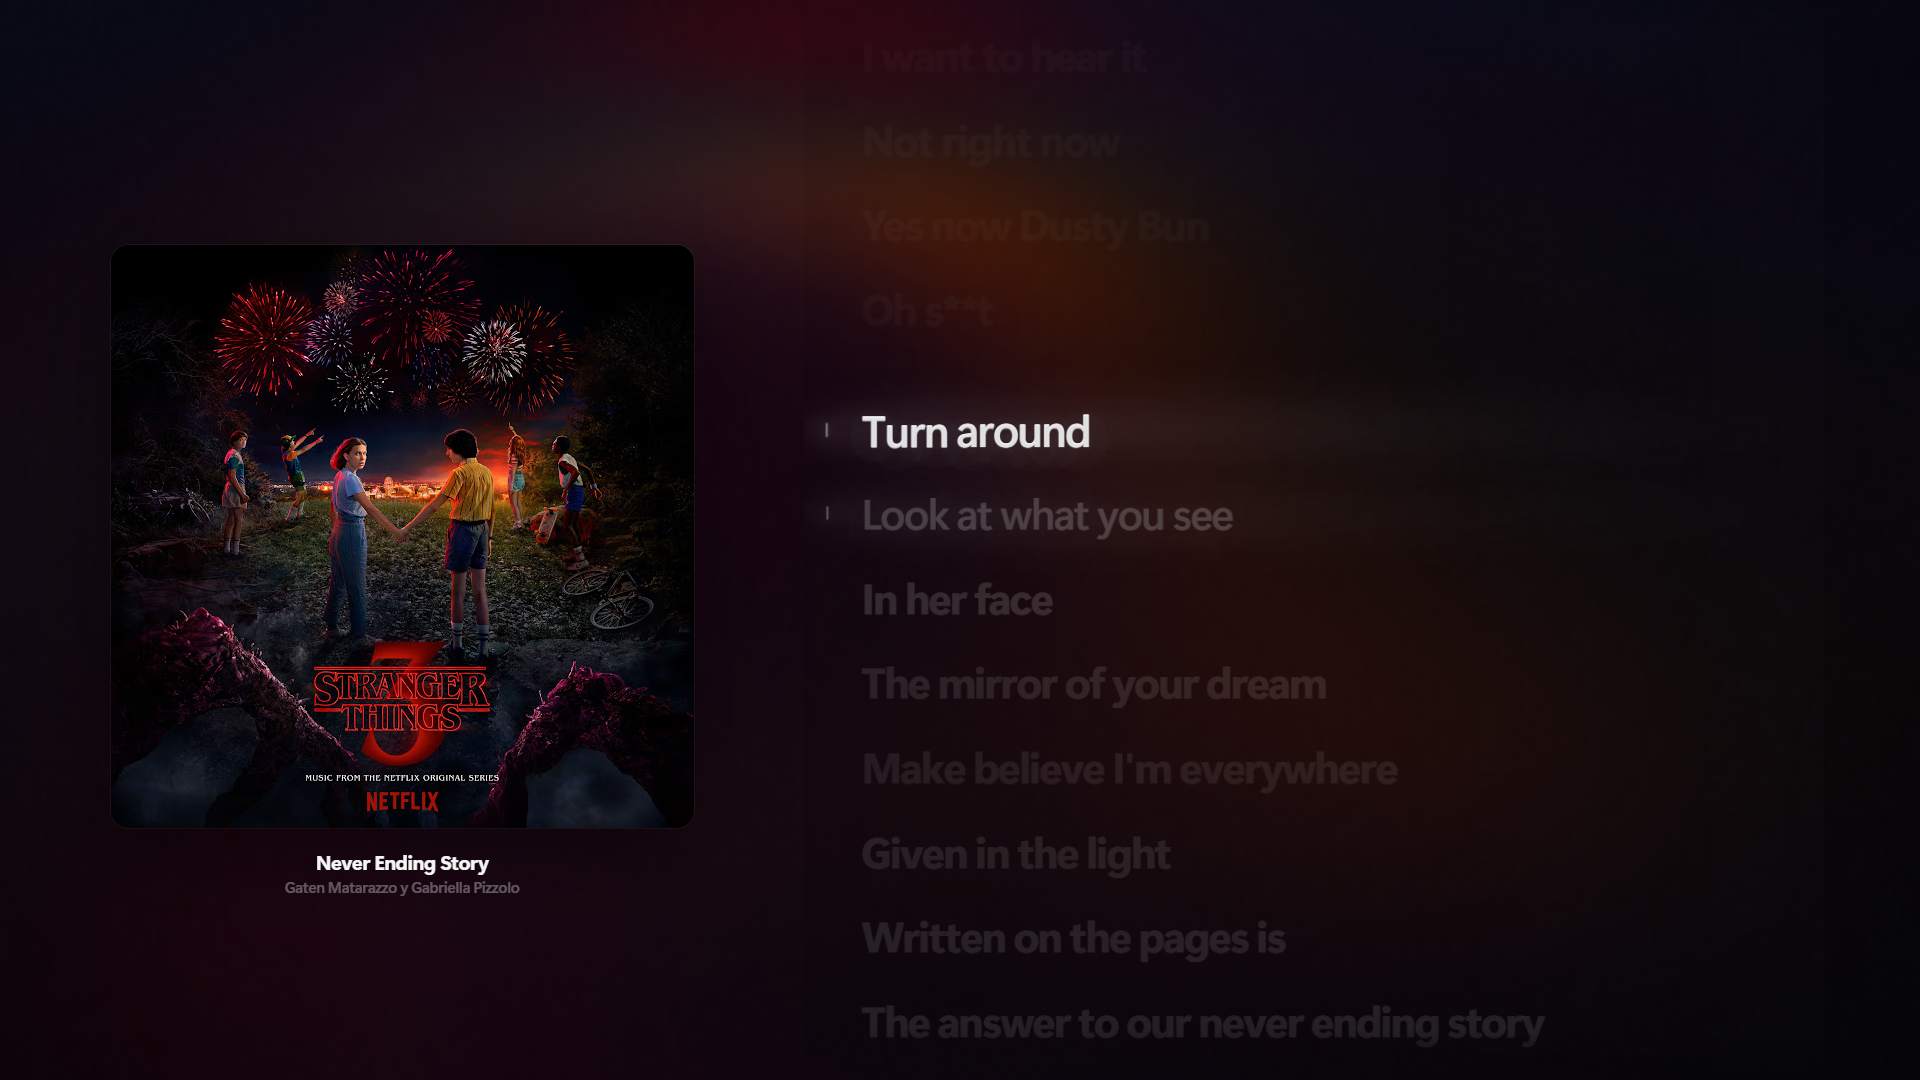
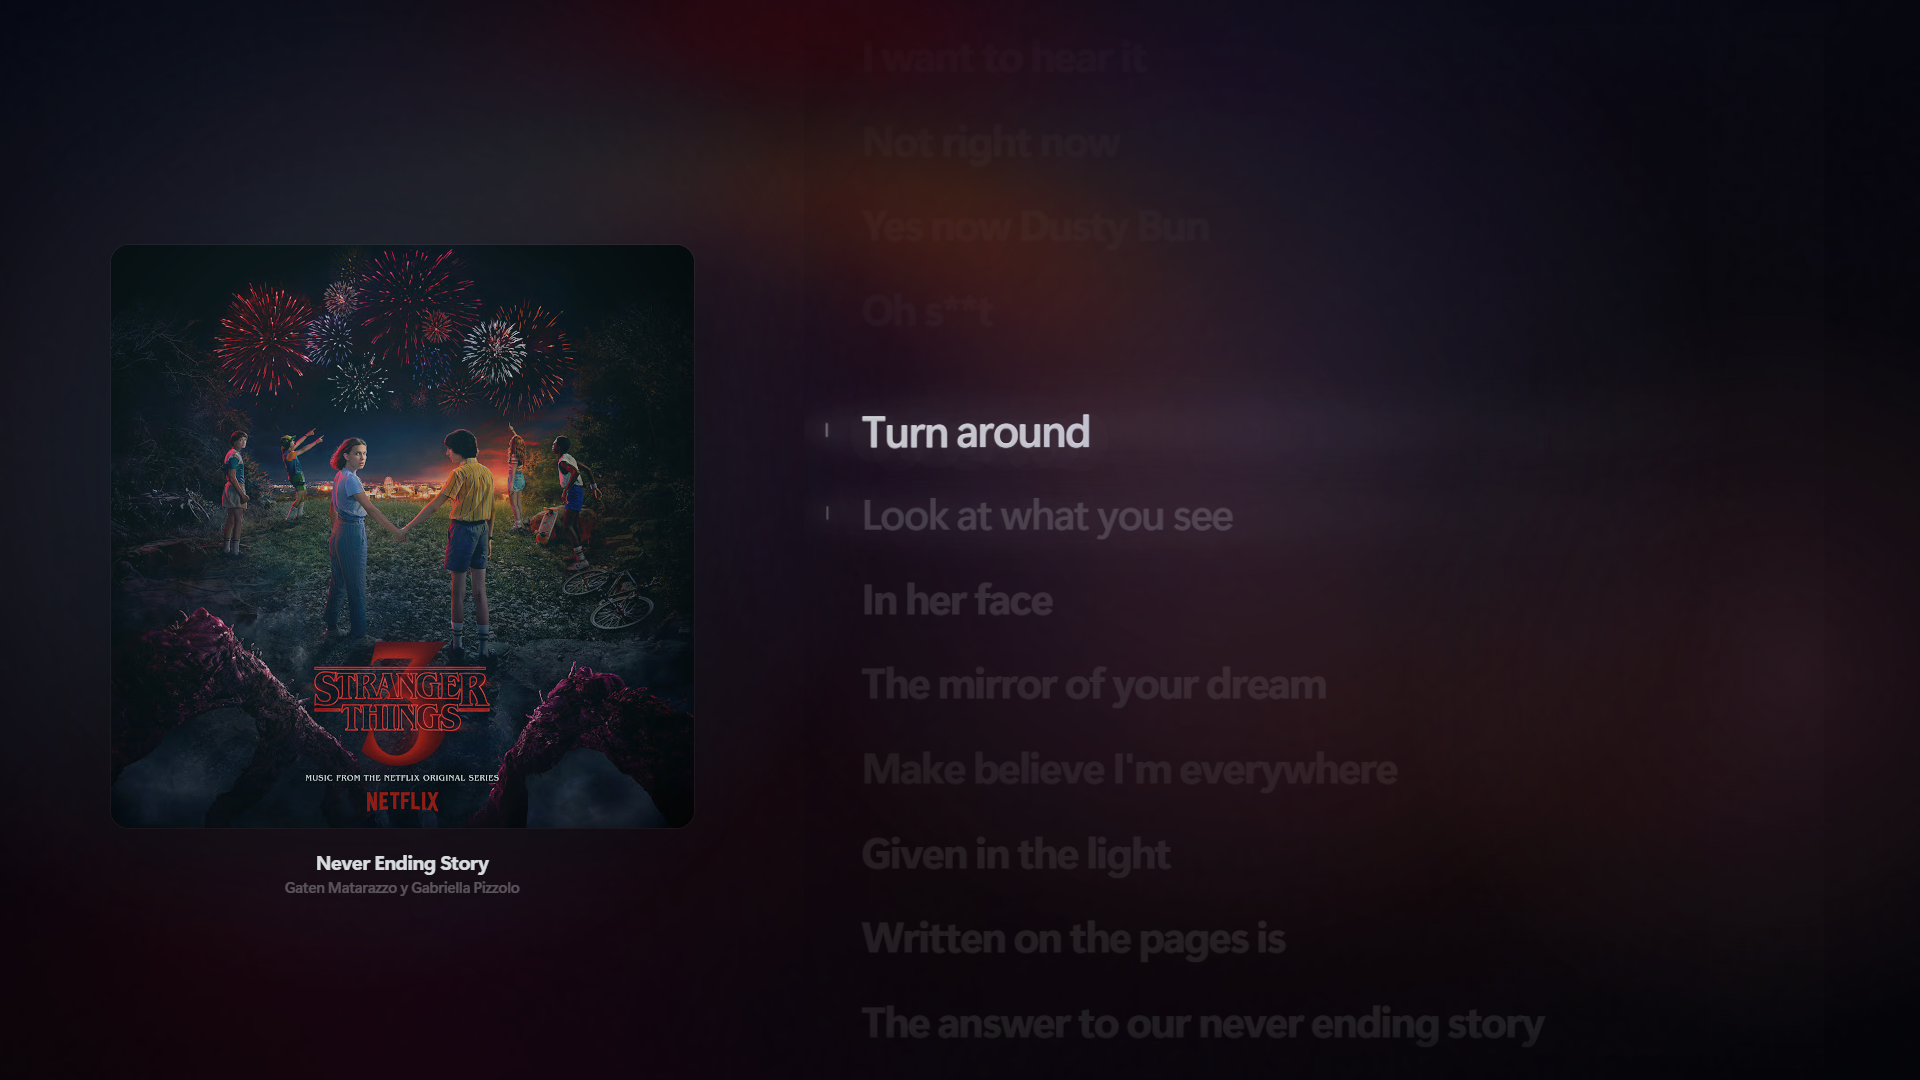
feat(lyric-glow): update to v1.4.0

diff --git a/themes/lyric-glow/style.css b/themes/lyric-glow/style.css
@@ -1,9 +1,9 @@
 /*
   ==========================================================================
-  LYRIC GLOW — Better Lyrics Theme
+  LYRIC GLOW â€” Better Lyrics Theme
   Creator: MatiuxXcd
   Marketplace ID: lyric-glow
-  Version: 1.3.1
+  Version: 1.4.0
   ==========================================================================
   An immersive dark theme for Better Lyrics + YouTube Music, focused on
   cinematic album-art ambience, highly readable lyrics and native rich-sync
@@ -47,13 +47,13 @@
     community-made, and is not affiliated with or endorsed by Apple.
 
   RELEASE POLICY
-  v1.3.1 intentionally preserves the visual design of v1.3. Changes are
-  documentation, cleanup and maintenance only.
+  v1.4.0 adds the Aurora Cinematic visual layer and optional Kawarp shader bridge while
+  preserving native lyric timing, rich-sync and all existing compatibility fallbacks.
   ==========================================================================
 */
 
 :root {
-  /* Better Lyrics engine — current documented API */
+  /* Better Lyrics engine â€” current documented API */
   --blyrics-font-family: "SF Pro Display", "SF Pro Text",
     "Segoe UI Variable Display", "Segoe UI Variable Text",
     Satoshi, var(--noto-sans-universal), -apple-system, BlinkMacSystemFont,
@@ -512,7 +512,7 @@ ytmusic-player-page[video-mode] video.html5-main-video {
 }
 
 /* =========================
-   LYRICS — APPLE MUSIC DYNAMIC PREVIEW
+   LYRICS â€” APPLE MUSIC DYNAMIC PREVIEW
    ========================= */
 
 .blyrics-container {
@@ -588,7 +588,7 @@ ytmusic-player-page[video-mode] video.html5-main-video {
   transform-origin: center center !important;
 }
 
-/* Base preview state — visible enough to read ahead. */
+/* Base preview state â€” visible enough to read ahead. */
 .blyrics-container:not(.blyrics-user-scrolling) > .blyrics--line {
   opacity: .34 !important;
   filter: blur(.20px) saturate(.94) !important;
@@ -779,7 +779,7 @@ ytmusic-player-page[video-mode] video.html5-main-video {
 }
 
 .blyrics-container[data-no-lyrics="true"] .blyrics--line::before {
-  content: "♪";
+  content: "â™ª";
   margin-bottom: 18px;
   color: rgba(255,255,255,.28);
   font-size: clamp(4rem, 8vw, 7rem);
@@ -1033,7 +1033,7 @@ tp-yt-paper-toast {
 
 
 /* =========================
-   PLAYER BAR — ROTATING DISC ART
+   PLAYER BAR â€” ROTATING DISC ART
    ========================= */
 
 /*
@@ -1160,11 +1160,11 @@ ytmusic-player-bar .image.ytmusic-player-bar::after {
 
 
 /* ==========================================================================
-   LYRIC GLOW — FINAL REFINEMENT LAYER
+   LYRIC GLOW â€” FINAL REFINEMENT LAYER
    ==========================================================================
    This single section replaces the historical v1.2 / v1.3 append-only
    patches. Keeping the refinement layer together makes maintenance easier
-   while preserving the v1.3 visual result.
+   while preserving the established visual result.
    ========================================================================== */
 
 :root {
@@ -1681,7 +1681,7 @@ ytmusic-guide-entry-renderer[active] tp-yt-paper-item {
 
 /*
   These breakpoints intentionally remain after the base theme breakpoints:
-  this reproduces the final v1.3 cascade.
+  this preserves the final refinement cascade.
 */
 @media (max-width: 1450px) {
   :root {
@@ -1727,3 +1727,224 @@ ytmusic-guide-entry-renderer[active] tp-yt-paper-item {
     animation: none !important;
   }
 }
+
+/* ==========================================================================
+   LYRIC GLOW 1.4 - AURORA CINEMATIC
+   ========================================================================== */
+
+:root {
+  /* Aurora palette: cool cyan for the primary voice, violet for the stage,
+     and a restrained rose accent for secondary voices. */
+  --am-aurora-cyan: #67d9ff;
+  --am-aurora-violet: #9b86ff;
+  --am-aurora-rose: #ff78ac;
+  --am-aurora-cyan-soft: rgba(103, 217, 255, .16);
+  --am-aurora-violet-soft: rgba(155, 134, 255, .14);
+  --am-aurora-rose-soft: rgba(255, 120, 172, .10);
+  --am-aurora-ink: #06070d;
+  --am-aurora-line: rgba(150, 205, 255, .18);
+}
+
+ytmusic-player-page:has(#better-lyrics-kawarp-player) {
+  background: var(--am-aurora-ink) !important;
+}
+
+ytmusic-player-page:has(#better-lyrics-kawarp-player)::before {
+  opacity: .12 !important;
+  filter:
+    blur(calc(var(--blyrics-background-blur, 30px) + 26px))
+    saturate(.72)
+    brightness(.30) !important;
+}
+
+ytmusic-player-page:has(#better-lyrics-kawarp-player)::after {
+  background:
+    radial-gradient(
+      ellipse at 18% 36%,
+      rgba(103, 217, 255, .075),
+      transparent 38%
+    ),
+    radial-gradient(
+      ellipse at 82% 46%,
+      rgba(155, 134, 255, .065),
+      transparent 42%
+    ),
+    linear-gradient(
+      to bottom,
+      rgba(6, 7, 13, .06),
+      rgba(6, 7, 13, .26) 58%,
+      rgba(6, 7, 13, .58)
+    ) !important;
+}
+
+#player-page #better-lyrics-kawarp-player,
+#player-page #better-lyrics-kawarp-backdrop-player {
+  pointer-events: none !important;
+}
+
+#player-page #better-lyrics-kawarp-player canvas {
+  display: block !important;
+  pointer-events: none !important;
+  filter: saturate(1.02) contrast(1.02) !important;
+}
+
+.blyrics-container:not([data-no-lyrics="true"]) {
+  background:
+    radial-gradient(
+      ellipse 72% 34% at 50% 44%,
+      rgba(103, 217, 255, .035),
+      transparent 70%
+    ),
+    radial-gradient(
+      ellipse 52% 28% at 78% 62%,
+      rgba(155, 134, 255, .028),
+      transparent 74%
+    ),
+    linear-gradient(
+      90deg,
+      rgba(0, 0, 0, .085) 0%,
+      rgba(0, 0, 0, .018) 28%,
+      transparent 58%,
+      rgba(103, 217, 255, .012) 100%
+    ) !important;
+}
+
+.blyrics-container:not([data-no-lyrics="true"])
+> .blyrics--line.blyrics--active::before,
+.blyrics-container:not([data-no-lyrics="true"])
+> .blyrics--line.blyrics--animating::before {
+  background:
+    radial-gradient(
+      ellipse at 18% 50%,
+      rgba(103, 217, 255, .16) 0%,
+      rgba(103, 217, 255, .072) 27%,
+      transparent 66%
+    ),
+    radial-gradient(
+      ellipse at 62% 50%,
+      rgba(155, 134, 255, .105) 0%,
+      rgba(155, 134, 255, .038) 32%,
+      transparent 72%
+    ),
+    radial-gradient(
+      ellipse at 92% 50%,
+      rgba(255, 120, 172, .060) 0%,
+      transparent 60%
+    ) !important;
+  filter: blur(12px) saturate(1.12) !important;
+}
+
+.blyrics-container:not([data-no-lyrics="true"])
+> .blyrics--line.blyrics--active::after,
+.blyrics-container:not([data-no-lyrics="true"])
+> .blyrics--line.blyrics--animating::after {
+  width: 3px !important;
+  background: linear-gradient(
+    to bottom,
+    var(--am-aurora-cyan),
+    var(--am-aurora-violet) 54%,
+    var(--am-aurora-rose)
+  ) !important;
+  box-shadow:
+    0 0 8px var(--am-aurora-cyan-soft),
+    0 0 18px var(--am-aurora-violet-soft) !important;
+}
+
+.blyrics-container:not([data-no-lyrics="true"])
+> .blyrics--line.blyrics--active .blyrics-line-main,
+.blyrics-container:not([data-no-lyrics="true"])
+> .blyrics--line.blyrics--animating .blyrics-line-main {
+  text-shadow:
+    0 1px 1px rgba(0, 0, 0, .14),
+    0 7px 26px rgba(103, 217, 255, .055),
+    0 14px 36px rgba(155, 134, 255, .045) !important;
+}
+
+.blyrics-container:not([data-no-lyrics="true"])
+> .blyrics--line[data-agent="v2"]::after,
+.blyrics-container:not([data-no-lyrics="true"])
+> .blyrics--line[data-agent="v3"]::after {
+  background: linear-gradient(
+    to bottom,
+    var(--am-aurora-rose),
+    var(--am-aurora-violet)
+  ) !important;
+  box-shadow: 0 0 12px var(--am-aurora-rose-soft) !important;
+}
+
+.blyrics-container:not([data-no-lyrics="true"])
+> .blyrics--line[data-agent="v1000"].blyrics--active .blyrics-line-main,
+.blyrics-container:not([data-no-lyrics="true"])
+> .blyrics--line[data-agent="v1000"].blyrics--animating .blyrics-line-main {
+  text-shadow:
+    0 1px 1px rgba(0, 0, 0, .14),
+    0 8px 30px rgba(155, 134, 255, .075) !important;
+}
+
+ytmusic-player-bar {
+  background:
+    linear-gradient(90deg, rgba(103, 217, 255, .045), transparent 34%, rgba(155, 134, 255, .038)),
+    rgba(12, 12, 14, .78) !important;
+  border-top-color: var(--am-aurora-line) !important;
+  box-shadow:
+    0 -12px 34px rgba(0, 0, 0, .16),
+    0 -1px 24px rgba(103, 217, 255, .035) !important;
+}
+
+ytmusic-player-bar #progress-bar #sliderBar,
+ytmusic-player-bar #progress-bar #primaryProgress,
+ytmusic-player-bar #progress-bar #progressContainer {
+  background: linear-gradient(
+    90deg,
+    var(--am-aurora-cyan),
+    var(--am-aurora-violet) 58%,
+    var(--am-aurora-rose)
+  ) !important;
+}
+
+ytmusic-player-bar .thumbnail-image-wrapper,
+ytmusic-player-bar #song-image,
+ytmusic-player-bar .image.ytmusic-player-bar {
+  box-shadow:
+    0 3px 10px rgba(0, 0, 0, .28),
+    0 0 0 1px rgba(255, 255, 255, .10),
+    0 0 18px rgba(103, 217, 255, .055) !important;
+}
+
+ytmusic-search-box:focus-within .search-box {
+  border-color: rgba(103, 217, 255, .24) !important;
+  box-shadow:
+    inset 0 1px 0 rgba(255, 255, 255, .045),
+    0 0 0 3px rgba(103, 217, 255, .045) !important;
+}
+
+ytmusic-player-page tp-yt-paper-tab[aria-selected="true"],
+ytmusic-player-page tp-yt-paper-tab.iron-selected {
+  color: var(--am-aurora-cyan) !important;
+  text-shadow: 0 0 18px rgba(103, 217, 255, .16) !important;
+}
+
+@media (prefers-reduced-motion: reduce) {
+  ytmusic-player-page:has(#better-lyrics-kawarp-player)::before {
+    opacity: .44 !important;
+  }
+
+  #player-page #better-lyrics-kawarp-player,
+  #player-page #better-lyrics-kawarp-backdrop-player {
+    opacity: 0 !important;
+  }
+}
+
+@media (prefers-contrast: more) {
+  :root {
+    --am-aurora-line: rgba(180, 225, 255, .28);
+  }
+
+  .blyrics-container:not([data-no-lyrics="true"])
+  > .blyrics--line.blyrics--active::after,
+  .blyrics-container:not([data-no-lyrics="true"])
+  > .blyrics--line.blyrics--animating::after {
+    box-shadow: 0 0 0 1px rgba(255, 255, 255, .55) !important;
+  }
+}
+

diff --git a/themes/lyric-glow/DESCRIPTION.md b/themes/lyric-glow/DESCRIPTION.md
@@ -1,36 +1,39 @@
 # Lyric Glow
 
-A cinematic, typography-first theme for **Better Lyrics**.
+An Aurora Cinematic, typography-first theme for Better Lyrics.
 
-Lyric Glow turns the YouTube Music player into an immersive lyric canvas: album-art colors fill the scene, the current lyric receives a soft diffuse glow, upcoming lines stay readable for anticipation, and previous lines naturally fall into the background.
+Lyric Glow turns YouTube Music into an immersive lyric canvas: album-art colors fill the scene, cyan, violet and rose auroras add depth, the current lyric receives a soft diffuse glow, upcoming lines stay readable for anticipation, and previous lines recede naturally.
 
 ## Highlights
 
-- **Lyric Glow stage** — active lyrics are emphasized with light and typography instead of visible cards.
-- **Native rich sync** — Better Lyrics keeps control of word/syllable timing, swipe, wobble and glow animations.
-- **Forward-reading hierarchy** — the next lines remain readable while already-sung lyrics recede.
-- **Voice-aware layout** — secondary/tertiary vocals and shared-vocal sections receive direction-aware presentation.
-- **Translations & romanization** — styled as subtle secondary captions.
-- **Dynamic album-art ambience** — blurred and toned artwork creates a cinematic background without overpowering the lyrics.
-- **Glass interface** — navigation, menus, dialogs, queue and player controls share a cohesive translucent design.
-- **Responsive layout** — tuned for normal player view, fullscreen and narrower desktop windows.
-- **Accessibility** — includes reduced-motion and increased-contrast fallbacks.
-- **No external font dependency** — uses the best native system font available.
+- Aurora lyric stage - active lyrics are emphasized with light, typography and a restrained three-color atmosphere.
+- Native rich sync - Better Lyrics keeps control of word/syllable timing, swipe, wobble and glow animations.
+- Forward-reading hierarchy - the next lines remain readable while already-sung lyrics recede.
+- Voice-aware layout - secondary/tertiary vocals and shared-vocal sections receive direction-aware presentation.
+- Translations and romanization - styled as subtle secondary captions.
+- Dynamic album-art ambience - blurred artwork remains as a fallback when the shader extension is unavailable.
+- Optional Kawarp shader - shader.json is tuned for smooth, efficient motion and contained audio response.
+- Glass interface - navigation, menus, dialogs, queue and player controls share a cohesive translucent design.
+- Responsive layout - tuned for normal player view, fullscreen and narrower desktop windows.
+- Accessibility - includes reduced-motion and increased-contrast fallbacks.
+- No external font dependency - uses the best native system font available.
 
 ## Recommended Setup
 
-Use the latest Better Lyrics version and keep album artwork/background features enabled for the intended visual experience.
+Use the latest Better Lyrics version, keep album-art/background features enabled, and install [Better Lyrics Shaders](https://github.com/better-lyrics/shaders) if you want the animated Kawarp background. Import this theme's shader.json through the shader extension popup.
+
+The shader is optional. The CSS theme remains usable with the static blurred album-art background alone.
 
 ## Compatibility
 
-Minimum Better Lyrics version: **2.4.0.1**
+Minimum Better Lyrics version: 2.4.0.1
 
-Lyric Glow uses modern browser features including `:has()`, masks and `backdrop-filter`, and is primarily designed for the desktop YouTube Music interface.
+Lyric Glow uses modern browser features including :has(), masks and backdrop-filter, and is primarily designed for the desktop YouTube Music interface.
 
 ## Credits
 
-Created by **MatiuxXcd**.
+Created by MatiuxXcd.
 
-Early selector/layout work was derived from **Lucid** by **drago-oo**, which is published as an MIT-licensed Better Lyrics theme. Lyric Glow was subsequently redesigned with its own lyric presentation, typography system, motion tuning and interface treatment.
+Early selector/layout work was derived from Lucid (https://github.com/drago-oo/lucid-theme) by drago-oo, which is published as an MIT-licensed Better Lyrics theme. Lyric Glow was subsequently redesigned with its own lyric presentation, typography system, motion tuning and interface treatment.
 
-**Apple Music** is a trademark of Apple Inc. Lyric Glow is an unofficial community theme and is not affiliated with or endorsed by Apple.
+Apple Music is a trademark of Apple Inc. Lyric Glow is an unofficial community theme and is not affiliated with or endorsed by Apple.
